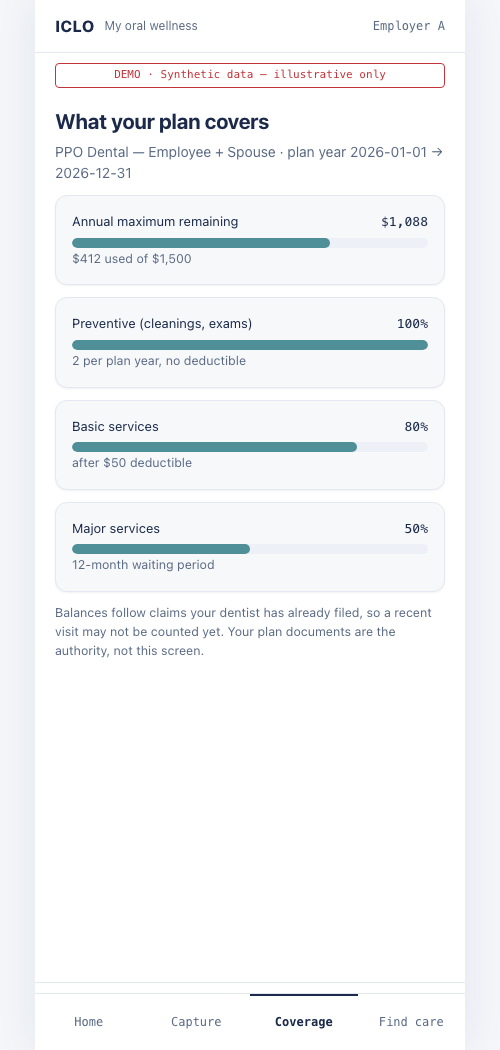
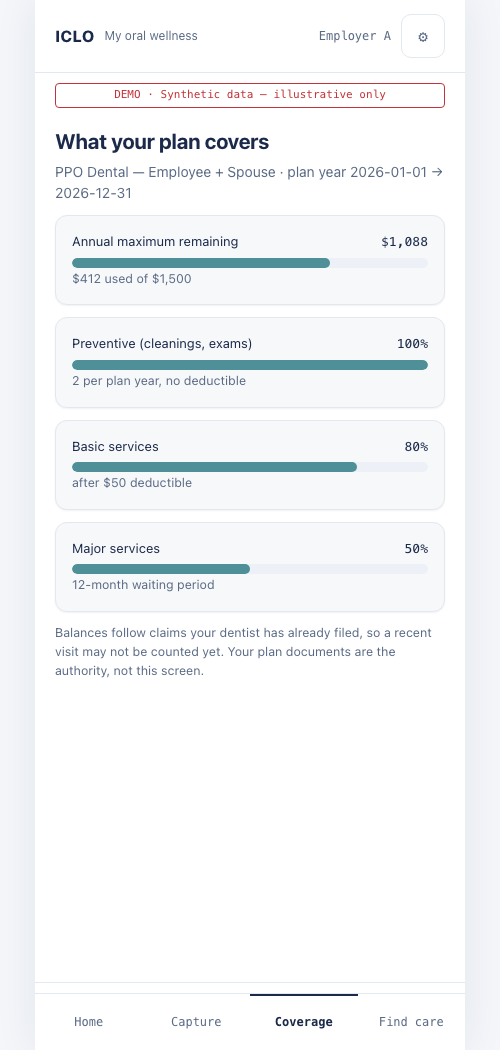
feat(app): make good on the two things the app was promising
The privacy block said consent could be withdrawn at any time and there
was no control anywhere in the app. The care screen said telling us you
booked stops the reminders, and there were no reminders. Both are
sentences a real product has to be able to back, and neither had a screen
behind it — the same shape as the Book button that submitted to nobody.

Settings sits behind a header control rather than a fifth nav slot; it is
not a peer of the four things someone opened the app to do. Consent is
listed per purpose, because agreeing to photo analysis and refusing
claims linkage is a real position and one switch cannot express it.
Withdrawing photo consent also turns reminders off, since a score that
keeps nudging off an input you just revoked is the wrong behaviour.

What withdrawal actually does is written carefully. Processing stops
going forward. Photos follow the retention schedule rather than
disappearing on the spot. And whether already-published aggregates get
rebuilt is recorded as still being decided — because it is: §5.4 of the
design leaves the retroactive scope open, and the contract carries it as
an open question. Promising erasure would have been the easy sentence and
a false one.

Home gets the check-in history. A single wellness number says very little
and the direction says most of it, and until now only the latest score
and its delta were on screen.

Verified by driving it headless: history renders four columns, settings
[…]

diff --git a/app.html b/app.html
@@ -31,6 +31,21 @@
          align-items:center;gap:10px;position:sticky;top:0;background:var(--panel);z-index:5}
   .logo{font-weight:800;letter-spacing:.02em}
   .who{font-size:12px;color:var(--ink2);margin-left:auto;font-family:var(--mono)}
+  .gearbtn{width:44px;min-height:44px;padding:0;border:1px solid var(--line);
+           border-radius:10px;background:var(--panel);color:var(--ink2);font-size:16px;
+           cursor:pointer;flex:0 0 auto}
+  .hist{display:flex;align-items:flex-end;gap:8px;height:96px;margin:4px 0 10px}
+  .hist .col{flex:1;display:flex;flex-direction:column;justify-content:flex-end;
+             align-items:center;gap:6px;height:100%}
+  .hist .bar{width:100%;border-radius:6px 6px 0 0;background:var(--barMid)}
+  .hist .col.now .bar{background:var(--strong)}
+  .hist .n{font-family:var(--mono);font-size:12px}
+  .hist .d{font-family:var(--mono);font-size:10px;color:var(--ink2)}
+  .srow{display:flex;align-items:flex-start;gap:12px;padding:12px 0;border-bottom:1px solid var(--line)}
+  .srow:last-child{border-bottom:0}
+  .srow .t{flex:1}
+  .srow .t b{font-size:14px;font-weight:600;display:block}
+  .toggle{width:auto;min-width:76px;flex:0 0 auto;font-family:var(--mono);font-size:12px}
   .synth{font-family:var(--mono);font-size:11px;color:var(--coral);
          border:1px solid var(--coral);border-radius:4px;padding:3px 7px;
          text-align:center;margin:10px 20px 0}
@@ -105,6 +120,7 @@
     <span class="logo">ICLO</span>
     <span class="muted" style="font-size:12px">My oral wellness</span>
     <span class="who" id="who"></span>
+    <button id="gear" class="gearbtn" type="button" aria-label="Settings and consent">⚙</button>
   </header>
   <div class="synth">DEMO · Synthetic data — illustrative only</div>
   <main id="view"></main>
@@ -135,6 +151,23 @@ const ME = {
   planYear: "2026-01-01 → 2026-12-31",
   annualMax: 1500,
   usedToDate: 412,
+  // Only the latest score and its delta were on screen, so the one thing a
+  // wellness number is for — the direction it is going — was invisible.
+  history: [
+    {on:"2026-08-09", score:78, band:"Moderate"},
+    {on:"2026-05-02", score:71, band:"Moderate"},
+    {on:"2026-01-18", score:64, band:"Priority"},
+    {on:"2025-10-05", score:69, band:"Moderate"},
+  ],
+  // The privacy block promised withdrawal and there was no control anywhere.
+  // Consent is per purpose, not one switch — someone can agree to photos and
+  // refuse claims linkage, and the app has to be able to show that.
+  consents: [
+    {k:"Data processing",             v:"v3", on:"2025-09-30", on_now:true},
+    {k:"Photo capture and analysis",  v:"v3", on:"2025-09-30", on_now:true},
+    {k:"Claims linkage",              v:"v2", on:"2025-09-30", on_now:true},
+  ],
+  reminders: true,
   coverage: [
     {k:"Preventive (cleanings, exams)", pct:100, note:"2 per plan year, no deductible"},
     {k:"Basic services",                pct:80,  note:"after $50 deductible"},
@@ -176,7 +209,7 @@ function privacyBlock(){
       <li>Not your photos, your score, or your visits — none of it reaches ${esc(ME.employer)}.</li>
       <li>They see counts across the whole workforce, and any group under 20 people is withheld entirely.</li>
       <li>ICLO stores your photos in separate controlled storage, not alongside the aggregate data.</li>
-      <li>You can withdraw consent and stop future processing at any time.</li>
+      <li>You can withdraw consent per purpose at any time — <button data-go="settings" style="width:auto;min-height:0;padding:0;border:0;background:none;color:var(--data);text-decoration:underline;font:inherit;font-size:13px;cursor:pointer">in settings</button>.</li>
     </ul>
   </div>`;
 }
@@ -196,11 +229,30 @@ function scoreCard(){
   </div>`;
 }
 
+function historyStrip(){
+  const h = [...ME.history].reverse();          // oldest first, so time reads left to right
+  const hi = Math.max(...h.map(x=>x.score));
+  const cols = h.map((x,i)=>`
+    <div class="col${i===h.length-1?" now":""}">
+      <span class="n">${x.score}</span>
+      <div class="bar" style="height:${Math.round((x.score/hi)*100)}%"
+           title="${esc(x.on)} · ${esc(x.band)}"></div>
+      <span class="d">${esc(x.on.slice(2))}</span>
+    </div>`).join("");
+  return `<div class="card">
+    <div class="hist">${cols}</div>
+    <div class="muted">Four check-ins since ${esc(h[0].on)}. A single number says little;
+    the direction is the part worth reading.</div>
+  </div>`;
+}
+
 const VIEWS = {
   home(){
     return `<h1>Hi, ${esc(ME.name.split(" ")[0])}</h1>
       <p>${esc(ME.plan)} · ${esc(ME.employer)}</p>
       ${scoreCard()}
+      <h2>Your check-ins</h2>
+      ${historyStrip()}
       ${privacyBlock()}
       <h2>Your plan right now</h2>
       <div class="card">
@@ -260,6 +312,47 @@ const VIEWS = {
       counted yet. Your plan documents are the authority, not this screen.</p>`;
   },
 
+  settings(){
+    const rows = ME.consents.map((c,i)=>`
+      <div class="srow">
+        <div class="t">
+          <b>${esc(c.k)}</b>
+          <span class="muted">${c.on_now ? `Agreed ${esc(c.on)} · ${esc(c.v)}` : "Withdrawn"}</span>
+        </div>
+        <button class="toggle" data-consent="${i}">${c.on_now ? "Withdraw" : "Re-agree"}</button>
+      </div>`).join("");
+    return `<h1>Consent and settings</h1>
+      <p>Consent is per purpose. Withdrawing one does not withdraw the others.</p>
+      <div class="card" style="padding:4px 16px">${rows}</div>
+
+      <div class="privacy">
+        <b>What withdrawing does</b>
+        <ul>
+          <li>Processing for that purpose stops going forward.</li>
+          <li>Figures already published to your employer are aggregate and do not identify you,
+              and whether past aggregates get rebuilt is <b>still being decided</b> — we will not
+              claim either way here.</li>
+          <li>Your photos stay in controlled storage under the retention schedule, not deleted
+              on the spot.</li>
+        </ul>
+      </div>
+
+      <h2>Reminders</h2>
+      <div class="card" style="padding:4px 16px">
+        <div class="srow">
+          <div class="t">
+            <b>Nudge me about open items</b>
+            <span class="muted">${ME.reminders
+              ? "On — about once a month, and it stops once you tell us you booked"
+              : "Off — nothing will be sent"}</span>
+          </div>
+          <button class="toggle" data-reminders>${ME.reminders ? "Turn off" : "Turn on"}</button>
+        </div>
+      </div>
+      <p class="muted">Nothing here is wired to a backend in this demo — the state lives in the
+      page and resets on reload.</p>`;
+  },
+
   care(){
     // Hand off, then ask. We cannot see whether a booking happened on the other
     // side of a phone call, so the only honest signal is the member telling us.
@@ -295,6 +388,9 @@ const VIEWS = {
 function paintNav(){
   $("nav").innerHTML = TABS.map(([k,l])=>
     `<button data-go="${k}" aria-current="${k===S.tab}">${l}</button>`).join("");
+  // Settings lives behind the header control, not in the nav: it is not a peer
+  // of the four things a member came to do.
+  $("gear").setAttribute("aria-current", S.tab === "settings");
 }
 function render(){
   $("who").textContent = ME.employer;
@@ -321,6 +417,17 @@ document.addEventListener("click", e=>{
     }
     return;
   }
+  if (e.target.closest("#gear")){ S.tab = "settings"; S.step = 0; return render(); }
+  const cs = e.target.closest("[data-consent]");
+  if (cs){
+    const c = ME.consents[+cs.dataset.consent];
+    c.on_now = !c.on_now;
+    // Photos are the input to the signal, so pulling that consent has to stop
+    // the thing it feeds rather than leaving a score updating off it.
+    if (!c.on_now && c.k.startsWith("Photo")) ME.reminders = false;
+    return render();
+  }
+  if (e.target.closest("[data-reminders]")){ ME.reminders = !ME.reminders; return render(); }
   const done = e.target.closest("[data-booked]");
   if (done){
     // SELF_REPORTED in the model. Weaker than a claim and labelled that way:

diff --git a/scripts/shots.py b/scripts/shots.py
@@ -47,11 +47,13 @@ SHOTS = [
     ("app-home",             "app.html",   {},                                               (500, 1050)),
     ("app-coverage",         "app.html",   {},                                               (500, 1050)),
     ("app-care",             "app.html",   {},                                               (500, 1050)),
+    ("app-settings",         "app.html",   {},                                               (500, 1050)),
 ]
 
 # app.html keeps its screen in a JS variable rather than the URL — it is a
 # single-member demo, so there is nothing to deep-link to yet. Patch instead.
-APP_TAB = {"app-home": "home", "app-coverage": "coverage", "app-care": "care"}
+APP_TAB = {"app-home": "home", "app-coverage": "coverage", "app-care": "care",
+           "app-settings": "settings"}
 
 
 def main():
